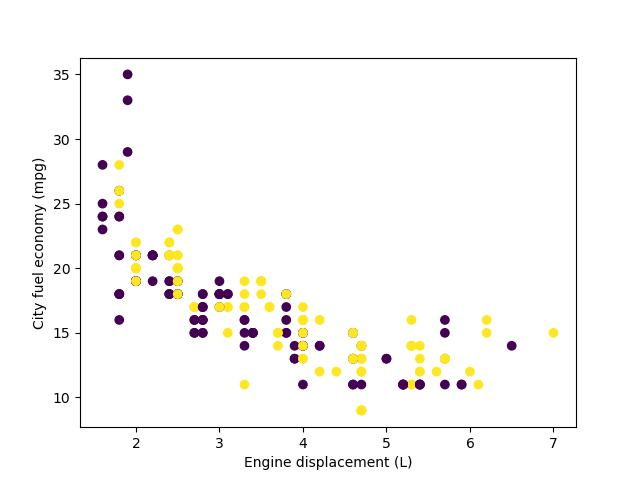
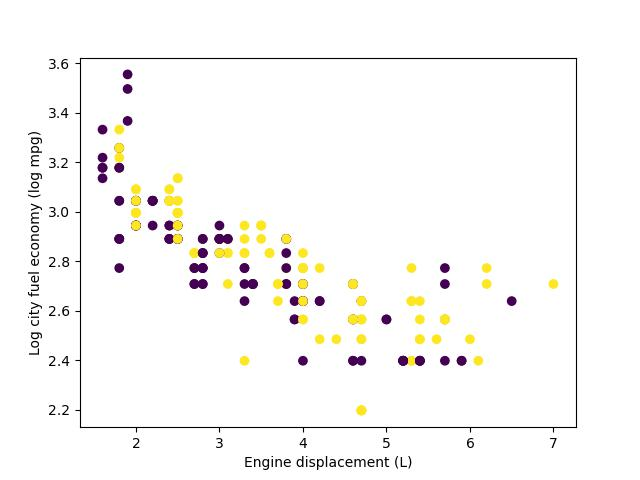
#1 Plot city fuel economy in logs

diff --git a/2_analysis/output/table_reg.tex b/2_analysis/output/table_reg.tex
@@ -5,7 +5,7 @@
 \textbf{Model:}            &       OLS        & \textbf{  Adj. R-squared:    } &     0.635   \\
 \textbf{Method:}           &  Least Squares   & \textbf{  F-statistic:       } &     203.3   \\
 \textbf{Date:}             & Tue, 07 Jul 2026 & \textbf{  Prob (F-statistic):} &  1.17e-51   \\
-\textbf{Time:}             &     17:15:37     & \textbf{  Log-Likelihood:    } &   -272.68   \\
+\textbf{Time:}             &     17:50:01     & \textbf{  Log-Likelihood:    } &   -272.68   \\
 \textbf{No. Observations:} &         234      & \textbf{  AIC:               } &     551.4   \\
 \textbf{Df Residuals:}     &         231      & \textbf{  BIC:               } &     561.7   \\
 \textbf{Df Model:}         &           2      & \textbf{                     } &             \\

diff --git a/2_analysis/source/analyze_data.py b/2_analysis/source/analyze_data.py
@@ -32,9 +32,9 @@ def hwy_figure(data):
   plt.savefig("../output/figure_hwy.jpg")
 
 def city_figure(data):
-  plt.scatter(data['displ'], data['cty'], c=data['year'])
+  plt.scatter(data['displ'], np.log(data['cty']), c=data['year'])
   plt.xlabel("Engine displacement (L)")
-  plt.ylabel("City fuel economy (mpg)")
+  plt.ylabel("Log city fuel economy (log mpg)")
   plt.savefig("../output/figure_city.jpg")
 
 # Execute
